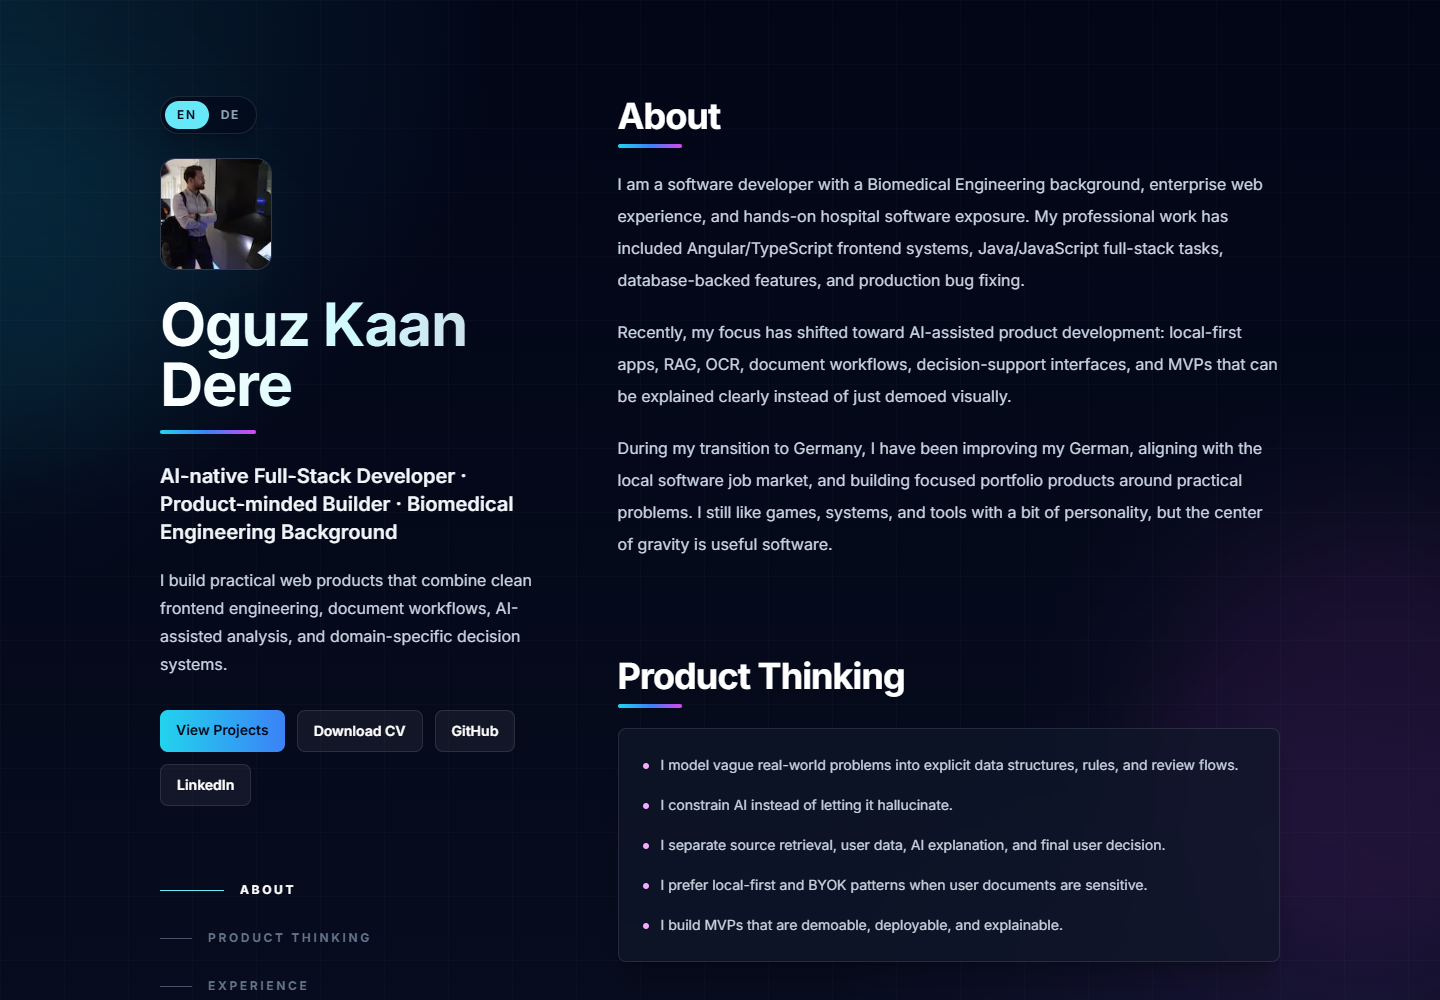
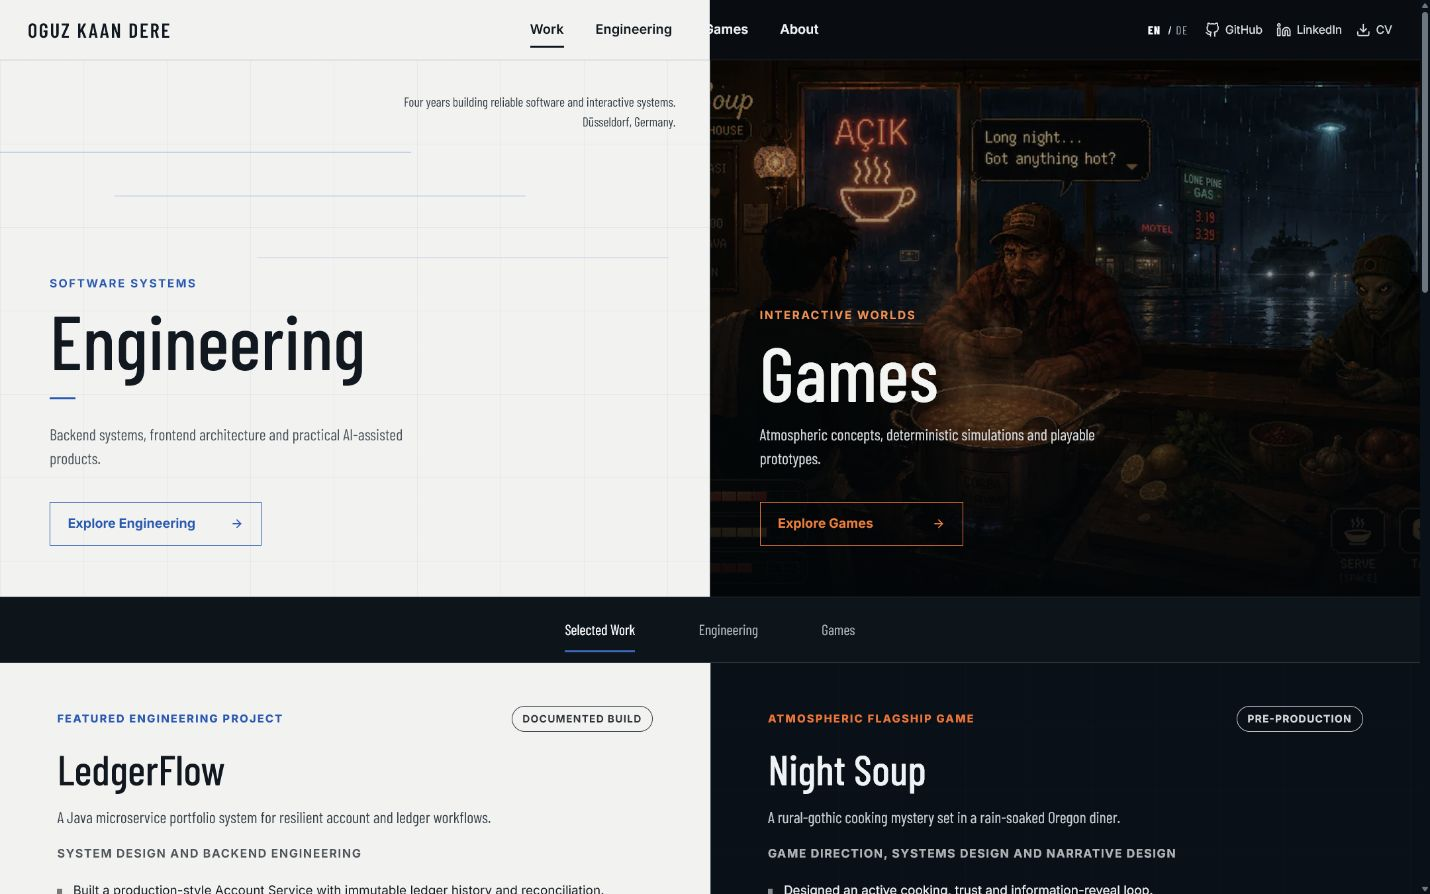
docs: add portfolio documentation and design qa

diff --git a/design-qa.md b/design-qa.md
@@ -1,0 +1,80 @@
+# Design QA
+
+## Evidence
+
+- Source visual truth: `C:\Users\ogzka\Downloads\ChatGPT Image 19 Tem 2026 19_39_11.png`
+- Source dimensions: 864 x 1821; desktop-only approved mockup
+- Rendered implementation: `http://localhost:4173/en`
+- Final desktop screenshots: `docs/assets/qa/after-home-1440.png`, `docs/assets/qa/after-games-1440.png`
+- Final mobile screenshots: `docs/assets/qa/after-home-390.png`, `docs/assets/qa/after-games-390.png`
+- Full-view before/after comparisons: `docs/assets/qa/comparison-before-after-home-1440.png`, `docs/assets/qa/comparison-before-after-games-1440.png`
+- Focused mobile comparisons: `docs/assets/qa/comparison-before-after-home-390.png`, `docs/assets/qa/comparison-before-after-games-390.png`
+- Requested viewports tested: 1440 x 900, 1280 x 720, 768 x 1024, 390 x 844, 360 x 800
+- States tested: EN home, DE home, Engineering, Games, About, mobile navigation open and closed, keyboard focus
+
+The source mockup and final 1440 x 900 implementation were inspected together. Pixel-exact viewport normalization is not possible because the approved source is an 864 px-wide full-page mockup, while the requested desktop validation viewports begin at 1280 px. Comparisons therefore use the source for hierarchy, split balance, typography, color, crop direction, and section rhythm rather than false pixel precision. The source supplies no mobile frame; mobile QA follows the approved Engineering-first stacking behavior.
+
+## Findings
+
+No actionable P0, P1, or P2 findings remain.
+
+### Required Fidelity Surfaces
+
+- Fonts and typography: Barlow Condensed preserves the narrow editorial display character; Inter keeps body copy readable. Heading weight, line height, zero letter spacing, wrapping, and compact UI sizing remain consistent across breakpoints.
+- Spacing and layout rhythm: the desktop split hero, sticky header, work tabs, and Selected Work transition now follow the source hierarchy closely. Games-page and mobile section spacing were reduced without collapsing project content.
+- Colors and tokens: off-white architectural Engineering surfaces, blue rules, dark Games surfaces, and orange accents remain unchanged. Text contrast is strong in inspected states.
+- Image quality: the verified Night Soup media remains sharp and unchanged. Its crop now favors the sign, diner guest, and cooking area; restrained brightness and layered overlays improve text legibility.
+- Copy and content: routes, localization, project data, statuses, links, and verified claims are unchanged.
+
+## Comparison History
+
+### Iteration 1
+
+- [P2] Desktop hero height delayed Selected Work and reduced the mockup's compact long-form rhythm.
+  - Fix: reduced the desktop hero from a 540-650 px range to a 480-540 px range, tightened CTA dimensions, reduced the work-tab height, and reduced initial project padding.
+  - Post-fix evidence: `docs/assets/qa/comparison-before-after-home-1440.png`. Selected Work now begins at approximately the same visual depth as the source composition.
+- [P2] The Games page intro reserved too much empty vertical space before Night Soup.
+  - Fix: reduced the world-page header minimum height and vertical padding, then tightened featured-project spacing.
+  - Post-fix evidence: `docs/assets/qa/comparison-before-after-games-1440.png`. Night Soup content and media now enter the first desktop viewport without crowding the introduction.
+- [P2] Mobile hero and world-page spacing kept important content unnecessarily low.
+  - Fix: reduced mobile hero minimum height, CTA spacing, world-page intro spacing, and featured-section padding while preserving readable line lengths.
+  - Post-fix evidence: `docs/assets/qa/comparison-before-after-home-390.png` and `docs/assets/qa/comparison-before-after-games-390.png`.
+- [P2] Night Soup's hero crop favored the far-right character and the lower overlay obscured too much of the cooking scene.
+  - Fix: shifted the verified image focal point from 52% to 46%, added a restrained brightness adjustment, and balanced horizontal and vertical overlays.
+  - Post-fix evidence: `docs/assets/qa/after-home-1440.png` and `docs/assets/qa/after-home-390.png`.
+- [P3] Desktop navigation and button proportions were slightly looser than the source.
+  - Fix: reduced header and button dimensions, tightened nav-link padding, and shifted the wide-desktop navigation toward the source alignment. The transform is removed at narrower desktop widths to avoid collisions.
+
+## Interaction And Accessibility Checks
+
+- No horizontal overflow at any requested viewport.
+- No visible CTA or menu control crosses the viewport width.
+- Mobile navigation exposes `aria-expanded`, routes correctly, and closes after navigation.
+- Keyboard focus displays a high-contrast gold outline with a 4 px offset.
+- Hover and active button treatments are defined; active links receive a restrained 1 px press response.
+- `prefers-reduced-motion` disables smooth scrolling and reduces transitions and animations.
+- Each tested route has one H1 and expected header, navigation, main, and footer landmarks.
+- All rendered images have meaningful alt text.
+- No browser console errors remained after the clean preview restart.
+
+## Open Questions
+
+- Native browser zoom was not instrumented in this browser surface. The requested viewport reflow, including the earlier 200% equivalent size, remains overflow-free.
+- The source mockup has no mobile reference frame, so mobile findings are responsive-quality checks rather than pixel comparisons.
+
+## Implementation Checklist
+
+- [x] Match desktop hero and Selected Work rhythm
+- [x] Refine Night Soup crop and overlay readability
+- [x] Reduce Games-page empty space
+- [x] Tighten mobile hero and section spacing
+- [x] Refine navigation and button proportions
+- [x] Verify focus, reduced motion, contrast, and semantic structure
+- [x] Re-capture desktop, tablet, and mobile evidence
+- [x] Preserve architecture, localization, content, links, and verified media
+
+## Follow-up Polish
+
+- P3: confirm native 200% zoom manually in a system browser if strict zoom instrumentation is required.
+
+final result: passed

diff --git a/README.md b/README.md
@@ -1,58 +1,48 @@
-# Oguz Kaan Dere Portfolio
+# Oguz Kaan Dere — Engineering & Games
 
-Personal portfolio for a full-stack engineer working across Java/Spring backend systems, performance-conscious React architecture, resilient data flows, controlled AI products, and deterministic browser-based experiences.
+Personal portfolio for [Oguz Kaan Dere](https://okdere.com), presenting one body of work through two distinct disciplines: precise software engineering and atmospheric interactive games.
 
-**Live site:** https://okdere.com
+## Portfolio Architecture
 
-## Featured engineering projects
+- **Work** — a split Engineering/Games introduction and selected project overview
+- **Engineering** — LedgerFlow, Weather with Shaders, context-api-but-it-scales and selected AI-assisted product work
+- **Games** — Night Soup, Swarm Script, Gladiator Arena and Schleimer
+- **About** — background, product principles, experience and technical skills
+- **EN/DE** — locale-aware routes and professional English/German content with `next-intl`
 
-- **LedgerFlow** — Java microservice architecture, PostgreSQL, immutable ledger, pessimistic locking, reconciliation, OpenAPI, integration testing, and ADRs.
-- **context-api-but-it-scales** — measured React rendering behavior, `useSyncExternalStore`, selectors, persistence, cross-tab synchronization, tests, and CI.
-- **Yet Another Weather App — but with shaders** — typed weather pipeline, stale-while-revalidate cache, race protection, WebGL2/GLSL rendering, reduced motion, and GPU lifecycle cleanup.
-- **Swarm Script** — programmable swarm roguelite with a custom DSL, safe interpreter, deterministic worker simulation, Phaser, and Monaco Editor.
-- **Germany Path Finder** — local-first, source-bound RAG decision support with citations and uncertainty handling.
-- **Admission Fit Checker** — defensive PDF/OCR extraction, typed validation, human review, and explainable admission-fit analysis.
+## Screenshots
 
-## Site structure
+![Split Engineering and Games homepage](docs/assets/home.png)
 
-- Recruiter-focused project-first content flow
-- English and German localization through `next-intl`
-- Responsive project and experience cards
-- Honest project statuses and direct live-demo/GitHub links
-- Downloadable CV, LinkedIn, and GitHub access
-- Minimal dark visual system with keyboard-accessible navigation
+![Games project presentation](docs/assets/games.png)
 
 ## Stack
 
-- Next.js 14
-- React 18
-- TypeScript
-- Tailwind CSS
+- Next.js App Router
+- React and TypeScript
+- Tailwind CSS with a focused global visual system
 - next-intl
 - Vercel
 
-## Run locally
+Project facts and links are centralized in `src/data/projects.ts`; localized editorial content lives in `messages/en.json` and `messages/de.json`.
+
+## Run Locally
 
 ```bash
-npm ci
+npm install
 npm run dev
 ```
 
-Open `http://localhost:3000`.
-
-## Build
+Quality checks:
 
 ```bash
+npm run lint
+npm run typecheck
 npm run build
 ```
 
-## Assets
-
-The site expects:
-
-- `public/profile-oguz.jpg`
-- `public/Oguz_Kaan_Dere_CV.pdf`
+The site expects `public/profile-oguz.jpg` and `public/Oguz_Kaan_Dere_CV.pdf`. Production metadata, canonicals, sitemap and robots target `https://okdere.com`.
 
 ## Deployment
 
-The `master` branch is connected to Vercel and deploys through the standard Next.js build flow. Production is served at `https://okdere.com`; legacy Vercel hostnames permanently redirect to the matching path on the canonical domain.
+Vercel uses npm and the standard Next.js production build configured in `vercel.json`.
